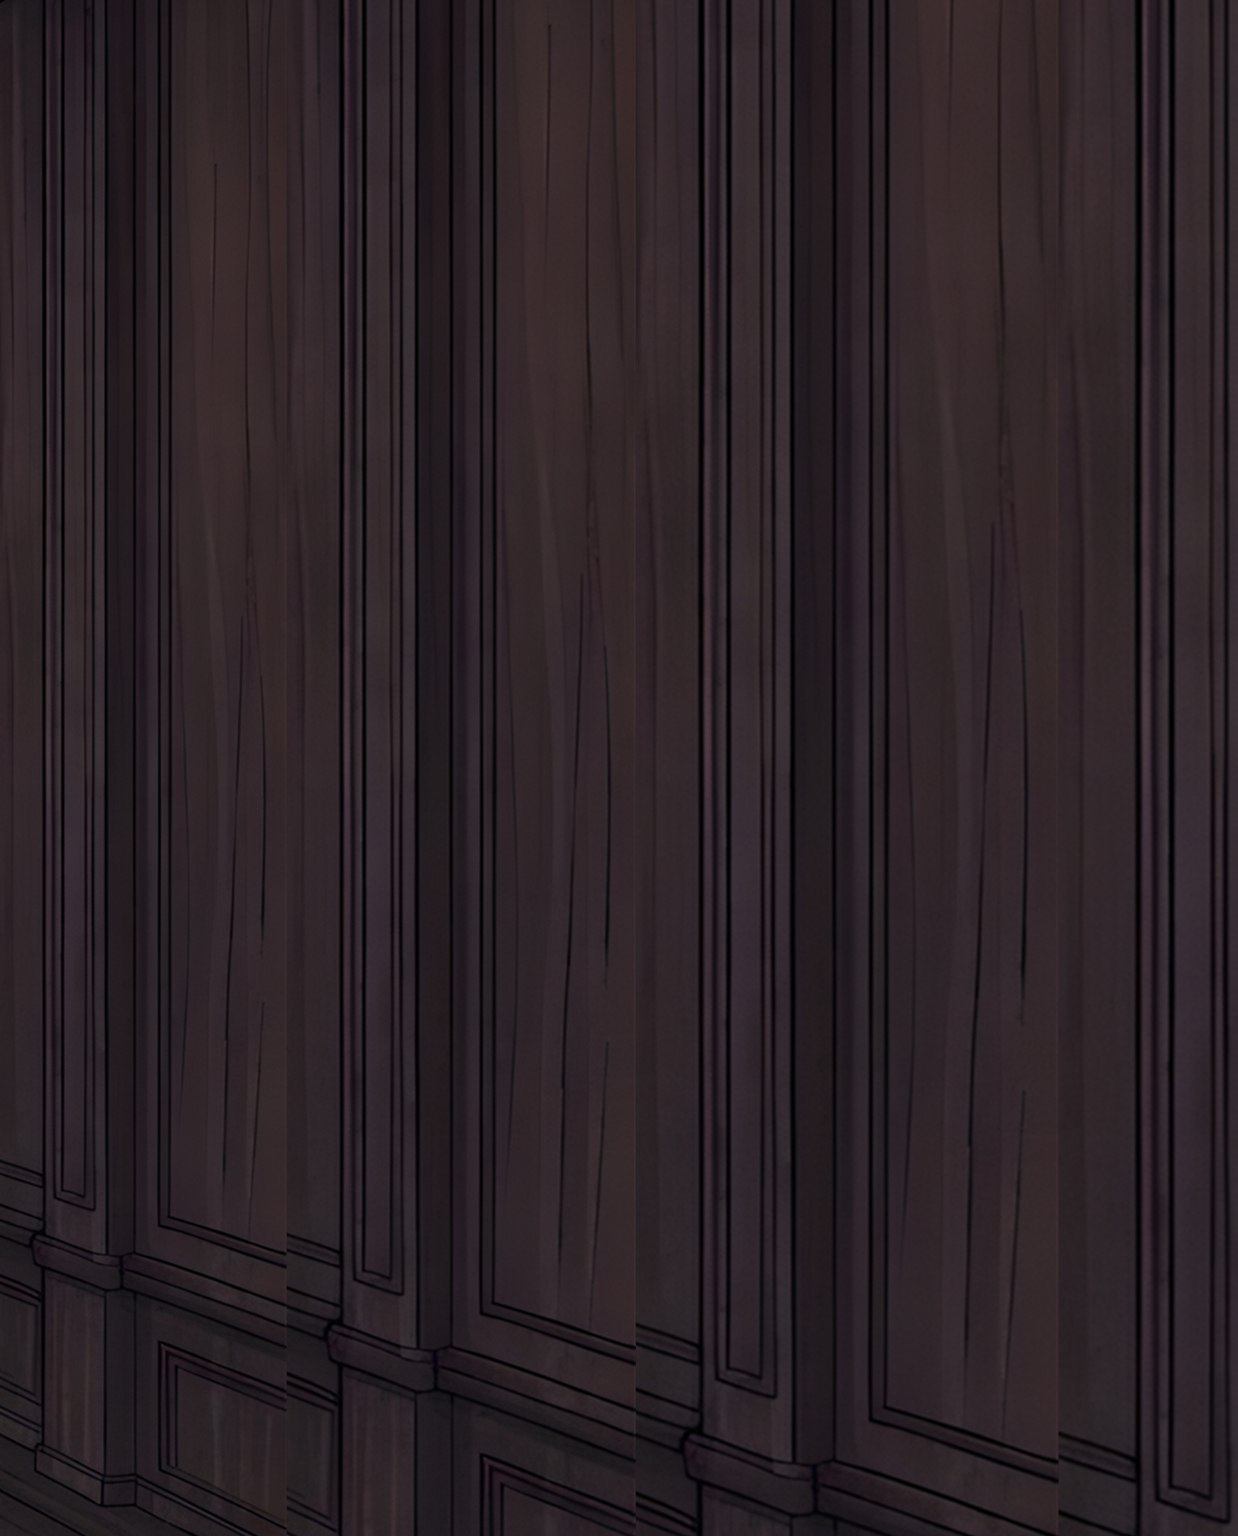
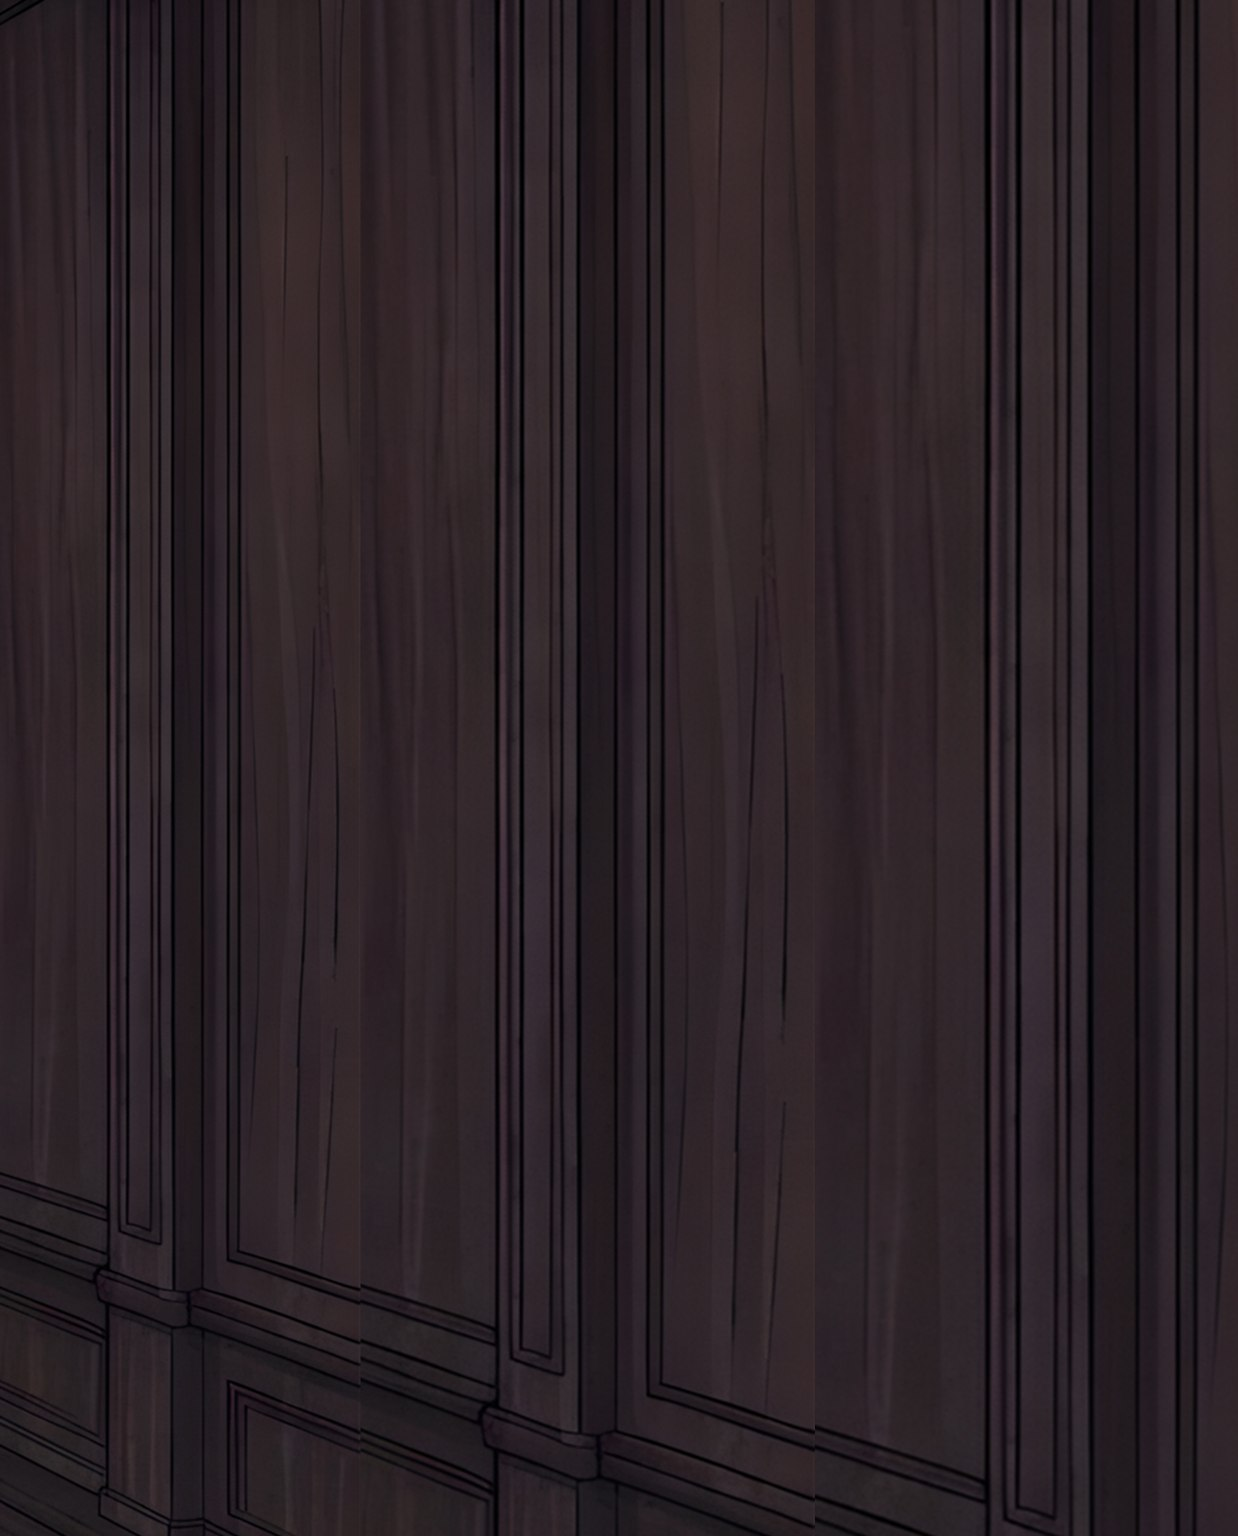
Side walls line up with the room's lower panels: vanishing point measured from the wall lines (1376, 745), 1.262 per panel

diff --git a/js/config.js b/js/config.js
@@ -48,8 +48,8 @@ const ASSETS = {
   },
   /* The workroom below the counter: shelves either side (Kitchen left, Cabinet right) and the altar table in front. */
   altarRoom: 'assets/scene/altar-room.jpg',
-  /* the walls past the picture on a wide window: the same room drawn empty, enlarged around its vanishing point (1410, 815 on the
-     2752×1536 picture) by 1.254 per panel on the left and 1.214 on the right, four steps, each strip 1238px (45%) wide */
+  /* the walls past the picture on a wide window: the same room drawn empty, enlarged around its vanishing point (1376, 745 on the
+     2752×1536 picture, where its lower wall lines meet) by 1.262 per panel, five steps, each strip 1238px (45%) wide */
   altarWallL: 'assets/scene/altar-wall-left.jpg', altarWallR: 'assets/scene/altar-wall-right.jpg',
   cabinetInside: 'assets/scene/cabinet-inside.jpg',  /* seen behind a cupboard door when it opens */
   logo: 'assets/scene/logo.png',  /* the shop's winged heart: the tab icon, the top bar, the day card at dawn */
